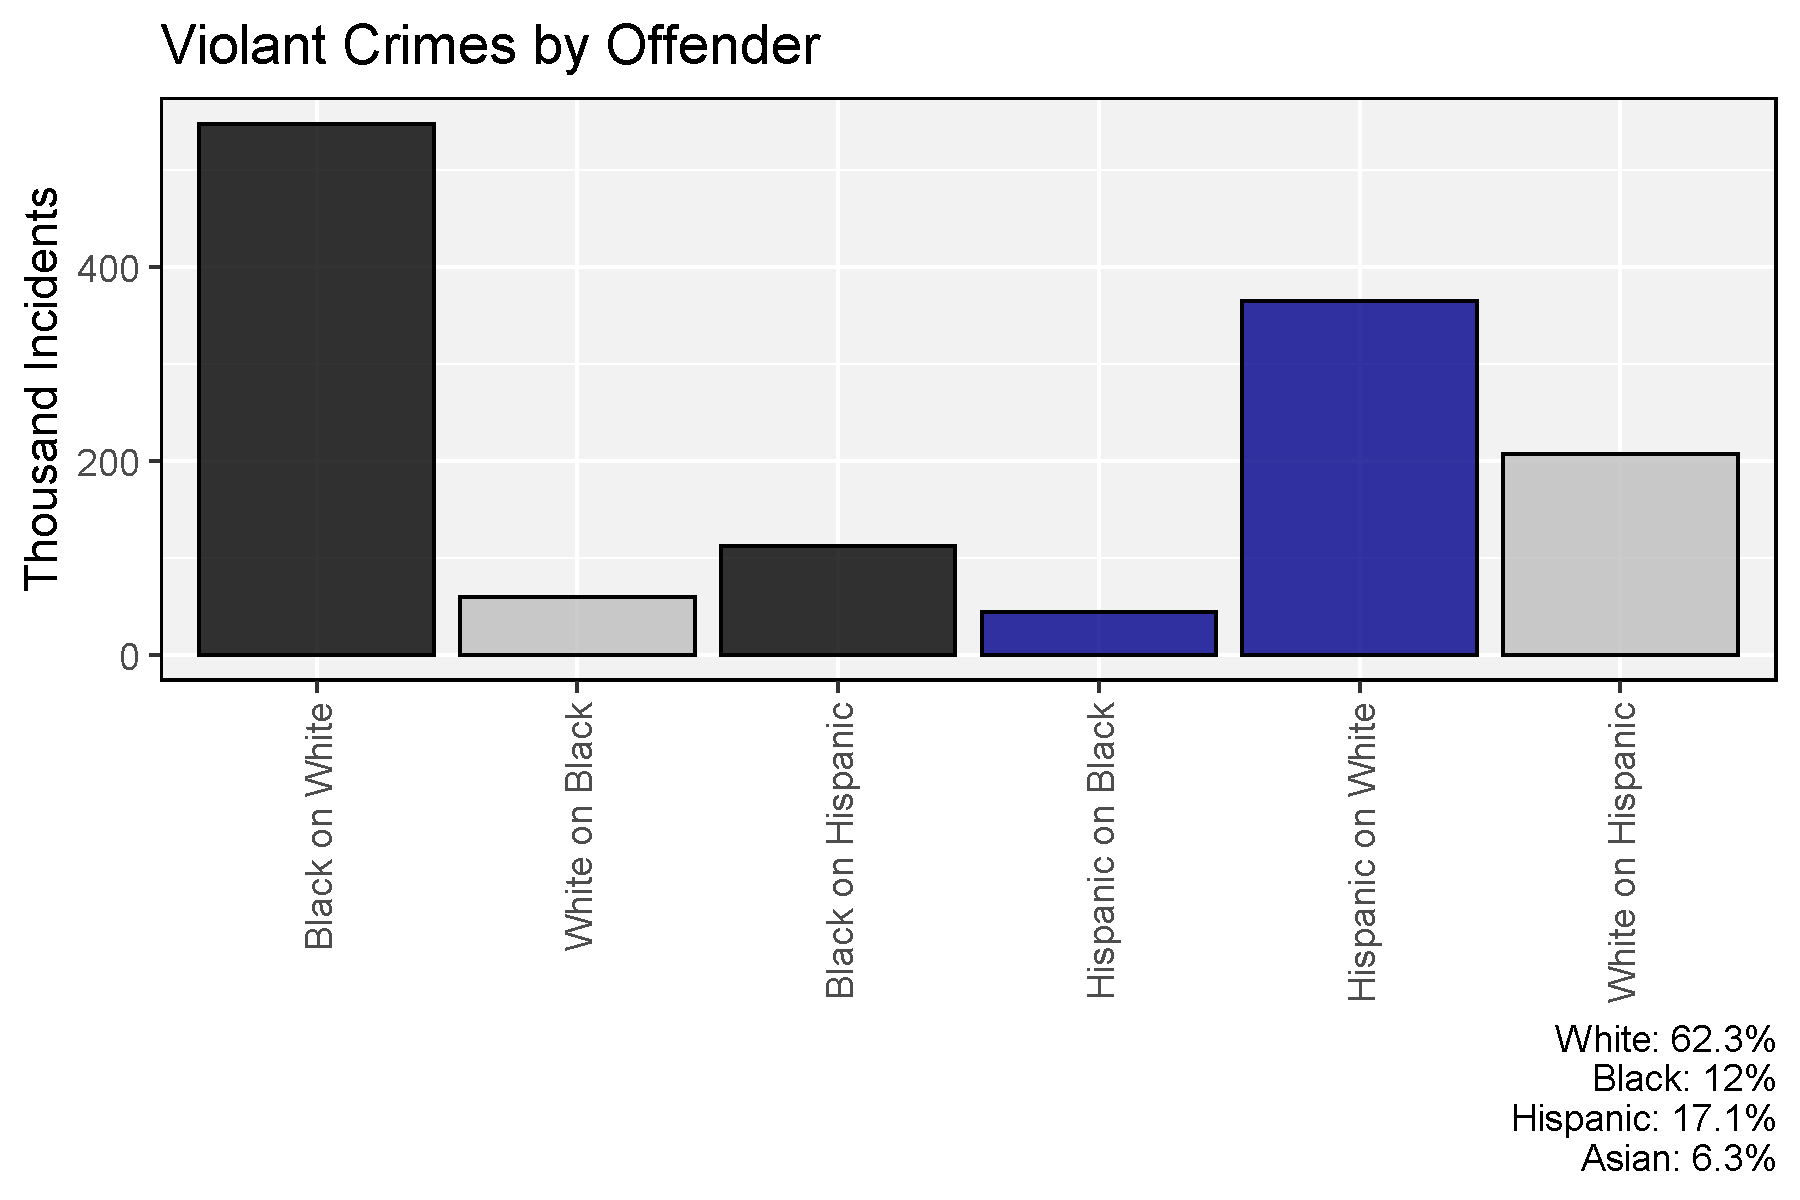
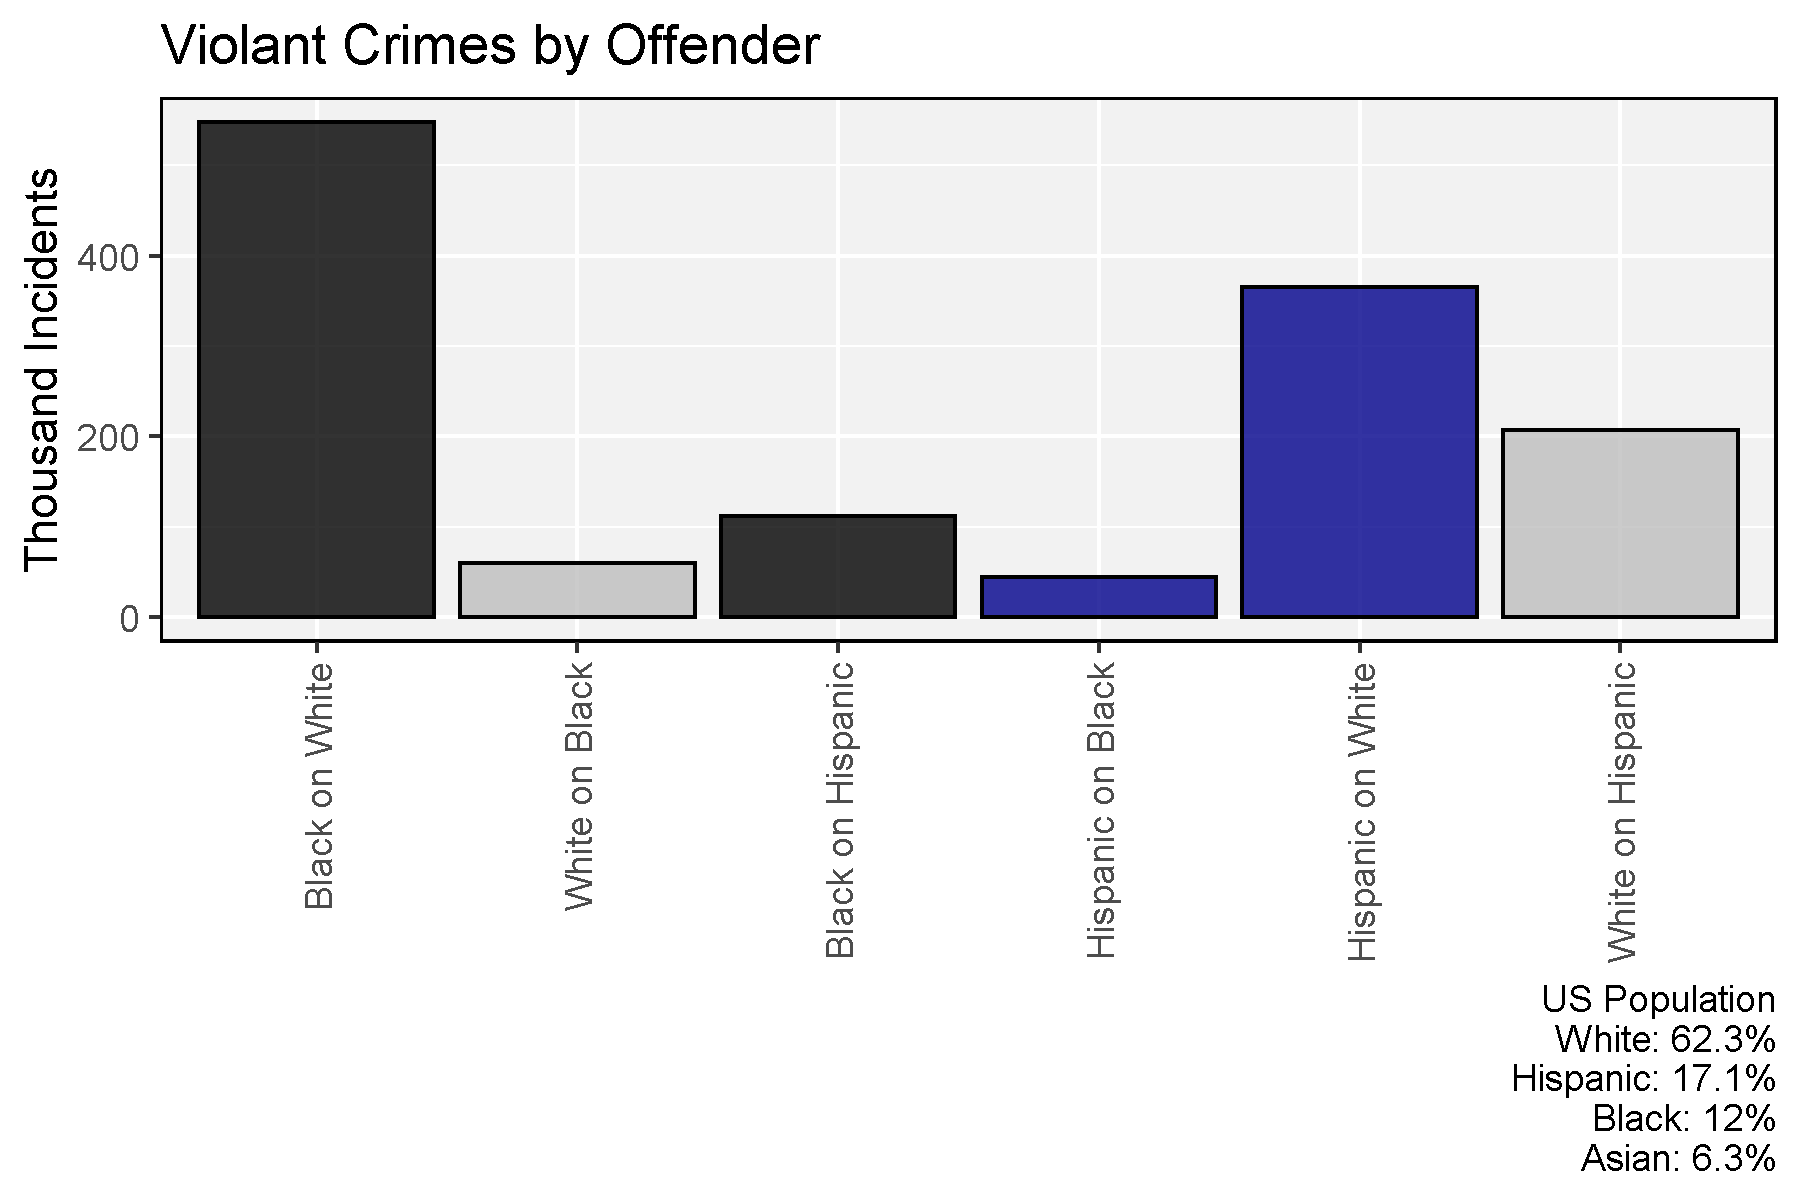
edit

diff --git a/content/dblogr/usa_crime/index.html b/content/dblogr/usa_crime/index.html
@@ -108,7 +108,7 @@ mp &lt;- ggplot(x2, aes(x = Crime, y = Incidents / 1000, fill = Offender)) +
   theme_agData(legend.position = &quot;none&quot;, rotx = T) +
   labs(title = &quot;Violant Crimes by Offender&quot;, y = &quot;Thousand Incidents&quot;, x = NULL,
        #caption = &quot;\xa9 www.dblogr.com/  |  Data: FBI\n*Does not account for population differences&quot;
-       caption = &quot;White: 62.3%\nBlack: 12%\nHispanic: 17.1%\nAsian: 6.3%&quot;)
+       caption = &quot;US Population\nWhite: 62.3%\nHispanic: 17.1%\nBlack: 12%\nAsian: 6.3%&quot;)
 ggsave(&quot;usa_crime_04.png&quot;, mp, width = 6, height = 4)</code></pre>
 <p><img src="usa_crime_04.png" /></p>
 <hr />
@@ -127,7 +127,7 @@ mp &lt;- ggplot(x2, aes(x = Crime, y = Incidents / 1000, fill = Offender)) +
   theme_agData(legend.position = &quot;none&quot;, rotx = T) +
   labs(title = &quot;Violant Crimes by Offender&quot;, y = &quot;Thousand Incidents&quot;, x = NULL,
        #caption = &quot;\xa9 www.dblogr.com/  |  Data: FBI\n*Does not account for population differences&quot;)
-       caption = &quot;White: 62.3%\nBlack: 12%\nHispanic: 17.1%\nAsian: 6.3%&quot;)
+       caption = &quot;US Population\nWhite: 62.3%\nHispanic: 17.1%\nBlack: 12%\nAsian: 6.3%&quot;)
 ggsave(&quot;usa_crime_05.png&quot;, mp, width = 6, height = 4)</code></pre>
 <p><img src="usa_crime_05.png" /></p>
 <hr />
